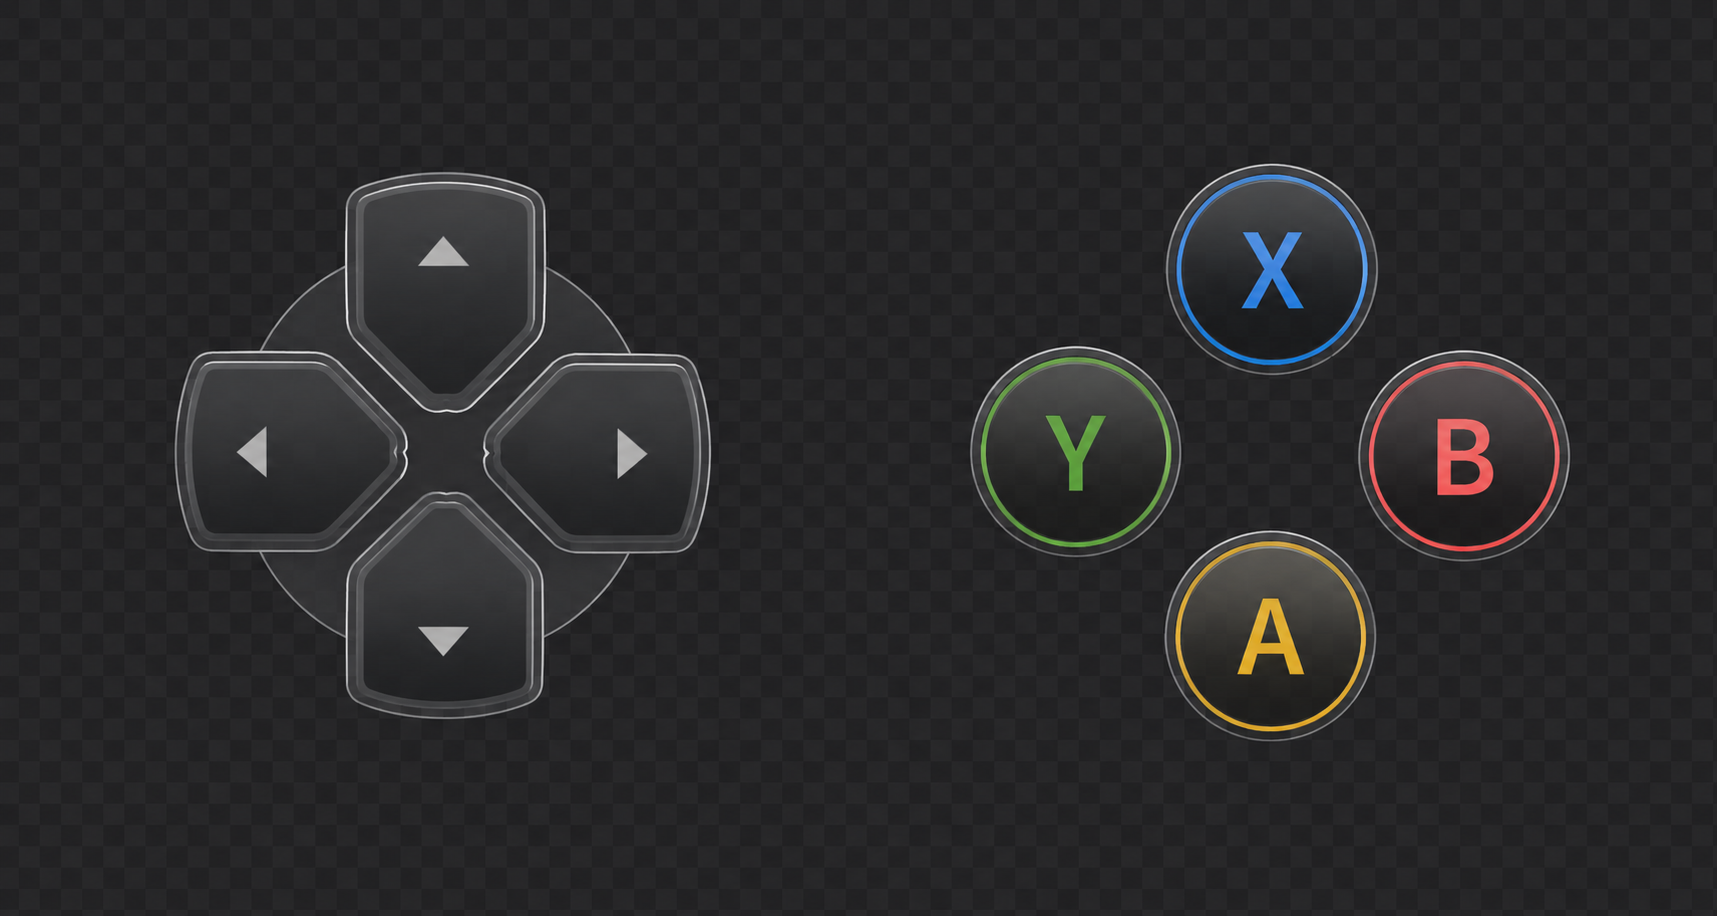
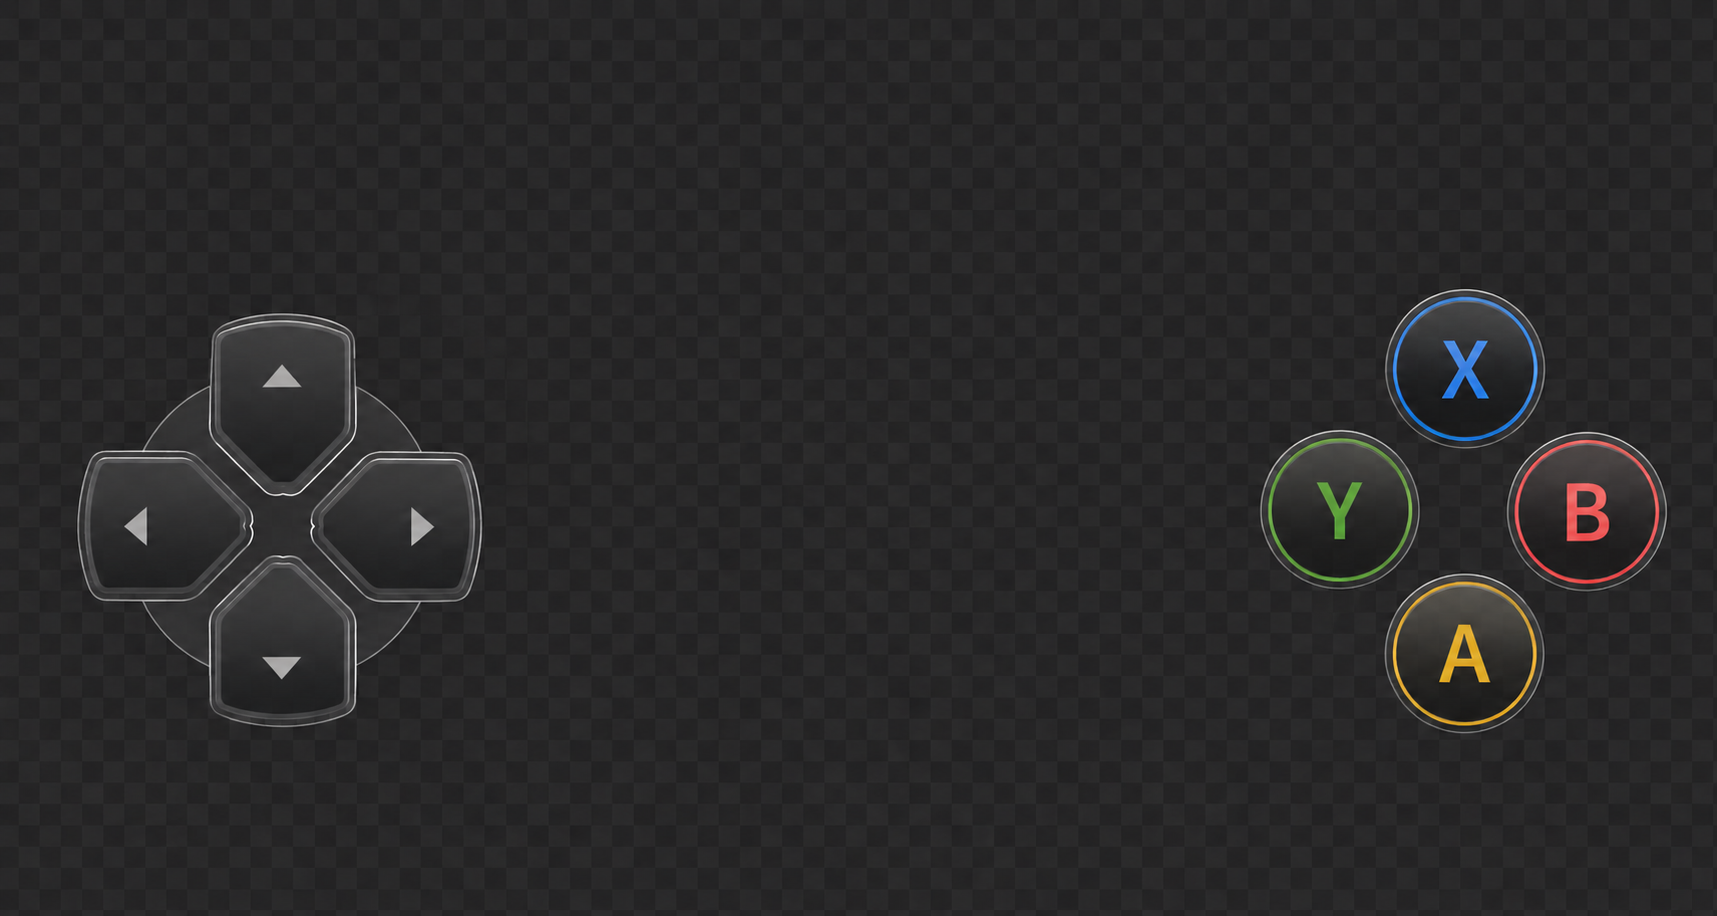
Add files via upload

diff --git a/outputs/index.html b/outputs/index.html
@@ -330,14 +330,14 @@
       background: rgba(255, 255, 255, 0.08);
     }
 
-    .hit-up { left: 15.5%; top: 20%; width: 11%; height: 20%; }
-    .hit-left { left: 4%; top: 39%; width: 13%; height: 18%; }
-    .hit-right { left: 25%; top: 39%; width: 13%; height: 18%; }
-    .hit-down { left: 15.5%; top: 58%; width: 11%; height: 20%; }
-    .hit-x { left: 75%; top: 14%; width: 17%; height: 30%; }
-    .hit-y { left: 65%; top: 38%; width: 13%; height: 24%; }
-    .hit-a { left: 77%; top: 58%; width: 13%; height: 24%; }
-    .hit-b { left: 89%; top: 38%; width: 11%; height: 24%; }
+    .hit-up { left: 12.1%; top: 34.2%; width: 9.2%; height: 19.8%; }
+    .hit-left { left: 4.2%; top: 49%; width: 10.6%; height: 16.8%; }
+    .hit-right { left: 18%; top: 49%; width: 10.6%; height: 16.8%; }
+    .hit-down { left: 12.1%; top: 60.7%; width: 9.2%; height: 18.6%; }
+    .hit-x { left: 80.2%; top: 31.6%; width: 10.2%; height: 17.2%; }
+    .hit-y { left: 73.2%; top: 46.8%; width: 9.8%; height: 17.2%; }
+    .hit-a { left: 80.6%; top: 62.6%; width: 9.8%; height: 17.4%; }
+    .hit-b { left: 87.9%; top: 46.8%; width: 9.8%; height: 17.2%; }
 
     button:active {
       transform: translateY(1px);
@@ -410,15 +410,6 @@
         width: min(98vw, 920px);
         max-height: calc(var(--remote-h) - 8px);
       }
-
-      .hit-up { left: 11.5%; top: 20%; width: 11%; height: 20%; }
-      .hit-left { left: 0.5%; top: 39%; width: 13%; height: 18%; }
-      .hit-right { left: 21%; top: 39%; width: 13%; height: 18%; }
-      .hit-down { left: 11.5%; top: 58%; width: 11%; height: 20%; }
-      .hit-x { left: 78%; top: 14%; width: 17%; height: 30%; }
-      .hit-y { left: 68%; top: 38%; width: 13%; height: 24%; }
-      .hit-a { left: 80%; top: 58%; width: 13%; height: 24%; }
-      .hit-b { left: 91%; top: 38%; width: 8.5%; height: 24%; }
     }
   </style>
 </head>

diff --git a/outputs/kitasenju-side-scroller.html b/outputs/kitasenju-side-scroller.html
@@ -330,14 +330,14 @@
       background: rgba(255, 255, 255, 0.08);
     }
 
-    .hit-up { left: 15.5%; top: 20%; width: 11%; height: 20%; }
-    .hit-left { left: 4%; top: 39%; width: 13%; height: 18%; }
-    .hit-right { left: 25%; top: 39%; width: 13%; height: 18%; }
-    .hit-down { left: 15.5%; top: 58%; width: 11%; height: 20%; }
-    .hit-x { left: 75%; top: 14%; width: 17%; height: 30%; }
-    .hit-y { left: 65%; top: 38%; width: 13%; height: 24%; }
-    .hit-a { left: 77%; top: 58%; width: 13%; height: 24%; }
-    .hit-b { left: 89%; top: 38%; width: 11%; height: 24%; }
+    .hit-up { left: 12.1%; top: 34.2%; width: 9.2%; height: 19.8%; }
+    .hit-left { left: 4.2%; top: 49%; width: 10.6%; height: 16.8%; }
+    .hit-right { left: 18%; top: 49%; width: 10.6%; height: 16.8%; }
+    .hit-down { left: 12.1%; top: 60.7%; width: 9.2%; height: 18.6%; }
+    .hit-x { left: 80.2%; top: 31.6%; width: 10.2%; height: 17.2%; }
+    .hit-y { left: 73.2%; top: 46.8%; width: 9.8%; height: 17.2%; }
+    .hit-a { left: 80.6%; top: 62.6%; width: 9.8%; height: 17.4%; }
+    .hit-b { left: 87.9%; top: 46.8%; width: 9.8%; height: 17.2%; }
 
     button:active {
       transform: translateY(1px);
@@ -410,15 +410,6 @@
         width: min(98vw, 920px);
         max-height: calc(var(--remote-h) - 8px);
       }
-
-      .hit-up { left: 11.5%; top: 20%; width: 11%; height: 20%; }
-      .hit-left { left: 0.5%; top: 39%; width: 13%; height: 18%; }
-      .hit-right { left: 21%; top: 39%; width: 13%; height: 18%; }
-      .hit-down { left: 11.5%; top: 58%; width: 11%; height: 20%; }
-      .hit-x { left: 78%; top: 14%; width: 17%; height: 30%; }
-      .hit-y { left: 68%; top: 38%; width: 13%; height: 24%; }
-      .hit-a { left: 80%; top: 58%; width: 13%; height: 24%; }
-      .hit-b { left: 91%; top: 38%; width: 8.5%; height: 24%; }
     }
   </style>
 </head>